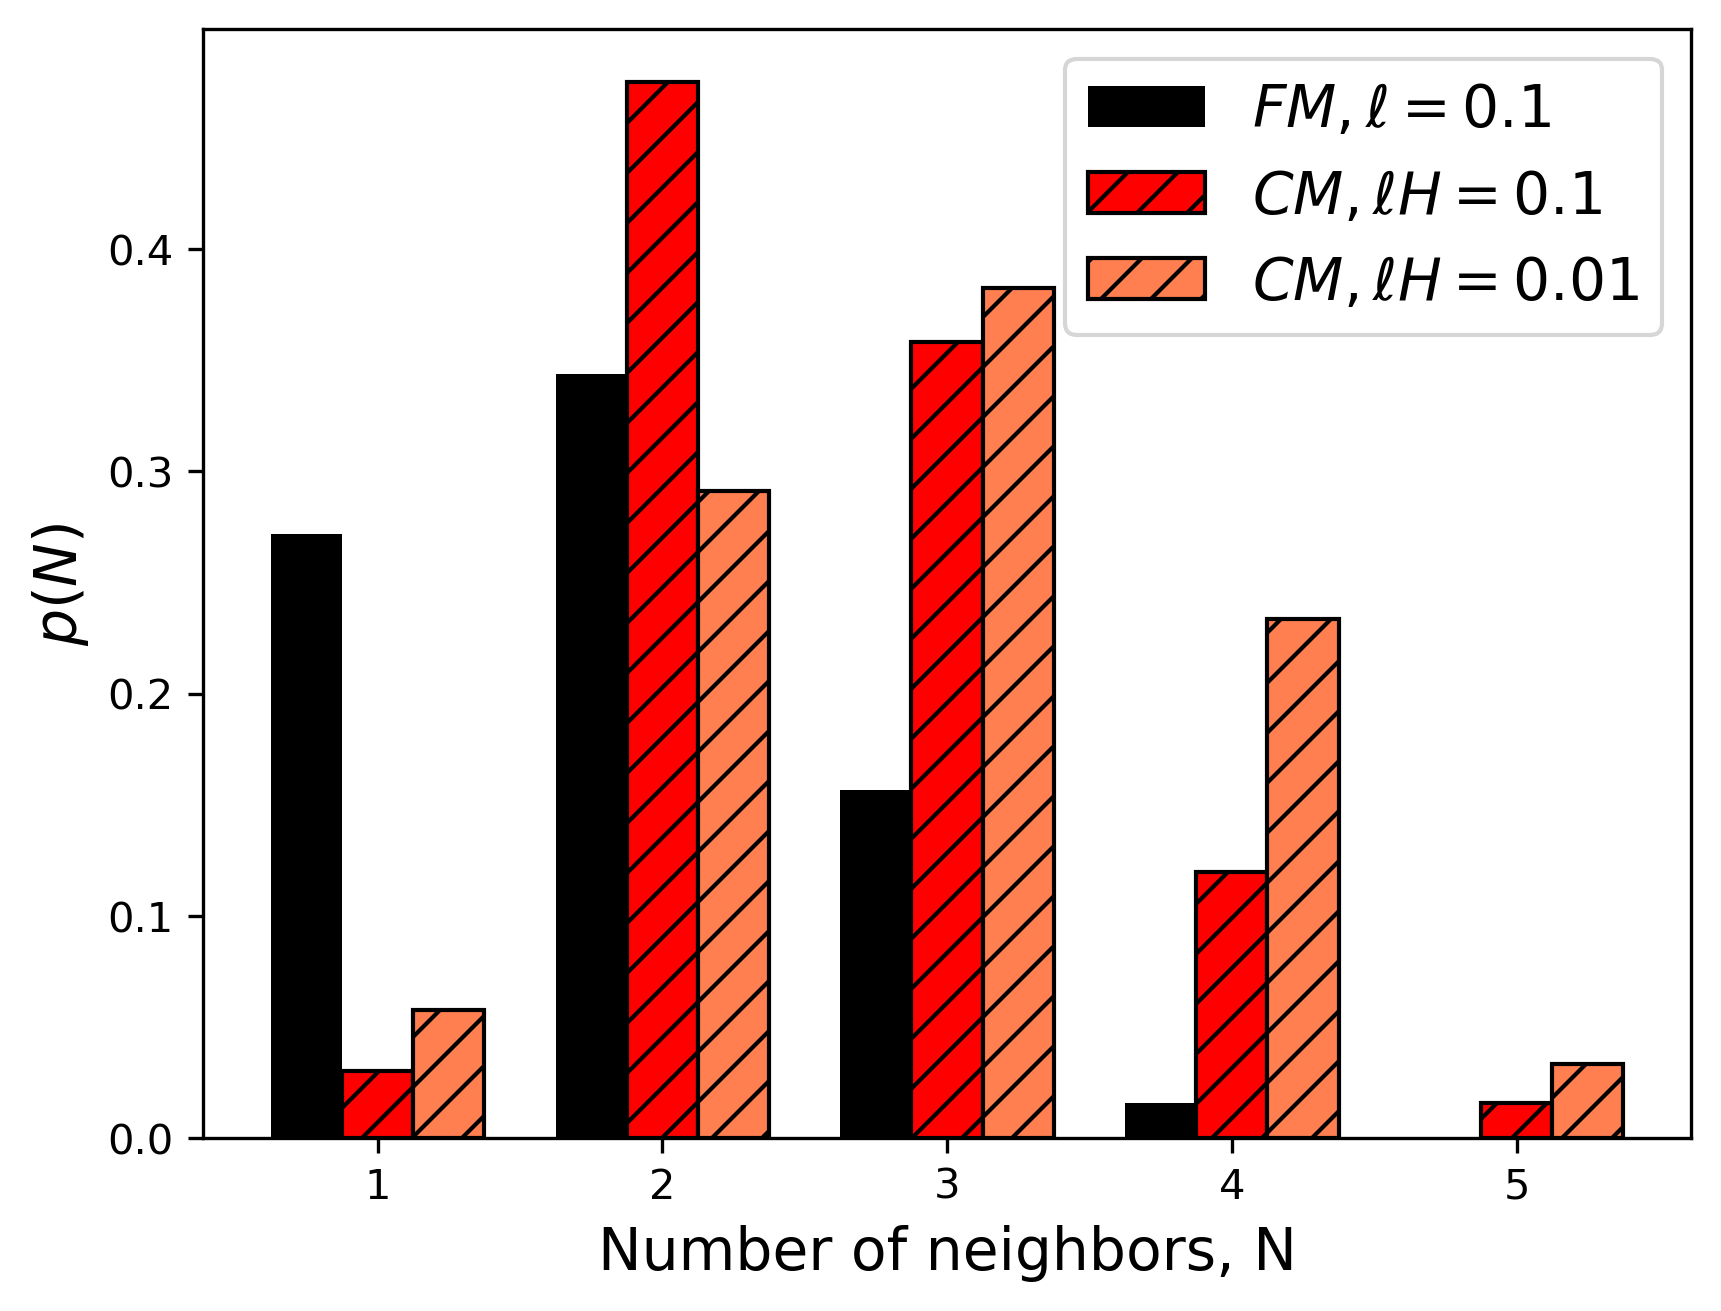
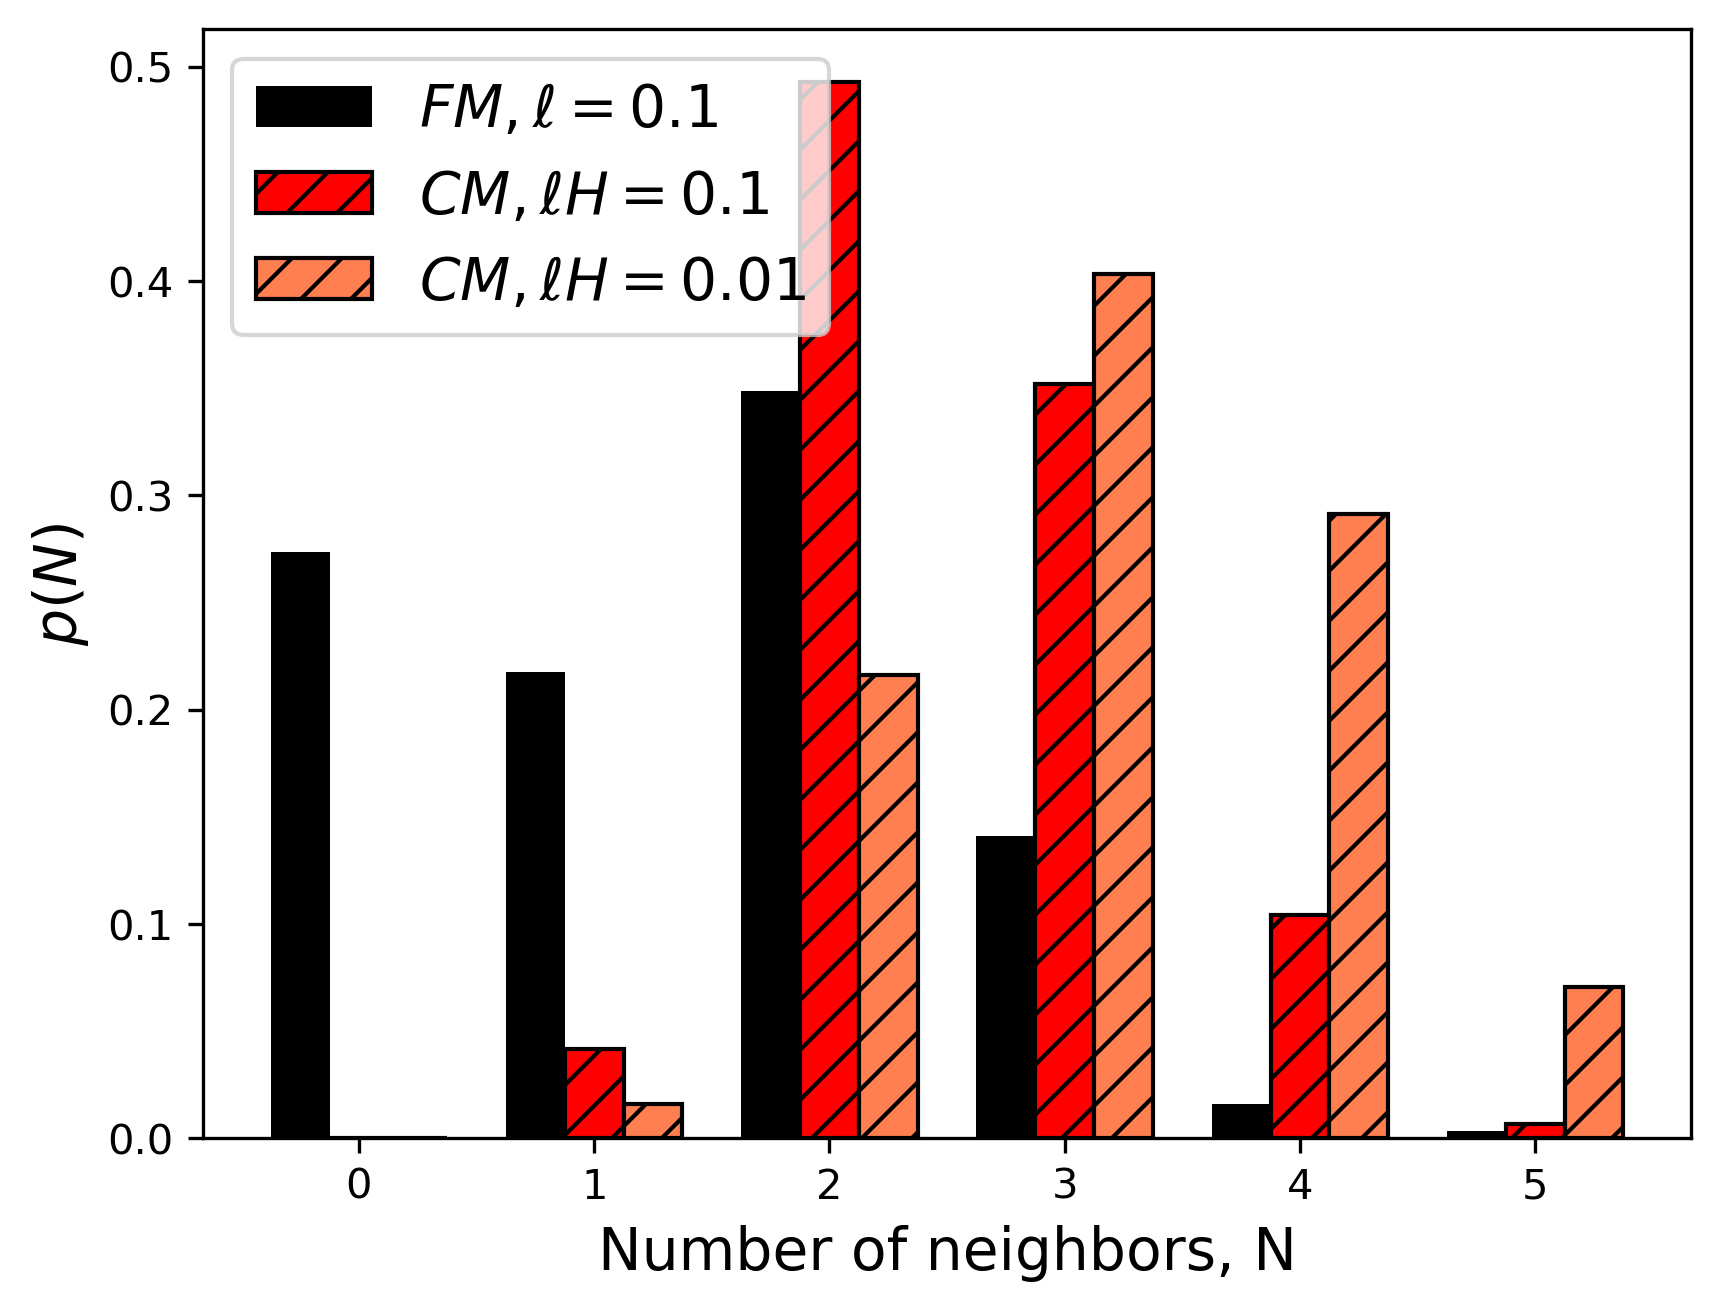
removed unnecessary PDF fits

diff --git a/Nearest Neighbor Analysis.py b/Nearest Neighbor Analysis.py
@@ -8,9 +8,9 @@ import seaborn as sns
 from scipy.stats import poisson, chisquare
 
 #%%
-pos_f01 = np.load('/Users/fizzausmani/Library/CloudStorage/Box-Box/Research/Python/Stability Analysis/FM T5000 N625 lattice sd0.1 isotropic pos.npy')[:,:,30000]
-pos_01 = np.load('/Users/fizzausmani/Library/CloudStorage/Box-Box/Research/Python/Stability Analysis/CM T5000 N625 lattice sd1 isotropic pos.npy')[:,:,30000]
-pos_001 = np.load('/Users/fizzausmani/Library/CloudStorage/Box-Box/Research/Python/Stability Analysis/CM T5000 N625 lattice sd0.1 isotropic pos.npy')[:,:,30000]
+pos_f01 = np.load('/Users/fizzausmani/Library/CloudStorage/Box-Box/Research/Python/Stability Analysis/FM T5000 N625 lattice sd0.1 isotropic pos.npy')[:,:,40000]
+pos_01 = np.load('/Users/fizzausmani/Library/CloudStorage/Box-Box/Research/Python/Stability Analysis/CM T5000 N625 lattice sd1 isotropic pos.npy')[:,:,-1]
+pos_001 = np.load('/Users/fizzausmani/Library/CloudStorage/Box-Box/Research/Python/Stability Analysis/CM T5000 N625 lattice sd0.1 isotropic pos.npy')[:,:,-1]
 ic = pd.read_csv('/Users/fizzausmani/Library/CloudStorage/Box-Box/Research/Python/Stability Analysis/CM T5000 N625 lattice sd0.1 isotropic ic.csv')
 
 N = int(ic.loc[4][1])
@@ -59,13 +59,14 @@ for i in range(0,N):
 
 def probability(counts):
     a = Counter(counts)
+    p0 = a[0]/N
     p1 = a[1]/N
     p2 = a[2]/N
     p3 = a[3]/N
     p4 = a[4]/N
     p5 = a[5]/N
     
-    prob = np.array([p1, p2, p3, p4, p5])
+    prob = np.array([p0, p1, p2, p3, p4, p5])
     
     return prob
 
@@ -75,7 +76,7 @@ probability_f01 = probability(counter_f01)
 
 #%%
 f = 14
-x1 = np.array([1,2,3,4,5])
+x1 = np.array([0,1,2,3,4,5])
 barWidth = 0.25
 x2 = [x + barWidth for x in x1]
 x3 = [x + barWidth for x in x2]
@@ -85,38 +86,35 @@ plt.clf()
 plt.bar(x1, probability_f01, hatch ="/", label = '$FM, \ell = 0.1$', color = 'black', width = barWidth)
 plt.bar(x2, probability_01, edgecolor = 'k', hatch = "//", label = '$CM, \ell H = 0.1$', color = 'red', width = barWidth)
 plt.bar(x3, probability_001, edgecolor = 'k', hatch = "//", label = '$CM, \ell H = 0.01$', color = 'coral', width = barWidth)
-plt.legend(fontsize = f)
+plt.legend(fontsize = f, loc = 'upper left')
 plt.xlabel('Number of neighbors, N', fontsize = f)
 plt.ylabel('$p(N)$', fontsize = f)
-plt.xticks([r + 1.25 for r in range(len(x1))], 
-        ['1', '2', '3', '4', '5'])
+plt.xticks([r + 0.25 for r in range(len(x1))], 
+        ['0', '1', '2', '3', '4', '5'])
 plt.savefig('Nearest Neighbor Analysis, N625_T1500.png', dpi = 300, bbox_inches = 'tight')
 plt.show()
 
 #%% poisson fit
-mu = np.mean(counter_f01)  # Poisson parameter is the mean of the data
+mu = np.mean(counter_001)  # Poisson parameter is the mean of the data
 x = np.arange(poisson.ppf(0.001, mu), poisson.ppf(0.99, mu))
 plt.cla()
 plt.plot(x, poisson.pmf(x, mu), 'r-', label='poisson pmf')
 
 # Plot your data
-plt.hist(counter_f01, bins=x, density=True, alpha=0.6, color='g')
+plt.hist(counter_001, bins=x, density=True, alpha=0.6, color='g')
 
 plt.legend()
 plt.show()
-
-#%%
-from scipy.stats import gamma
 
 # Calculate the observed frequencies
 observed_freq, bins = np.histogram(counter_001, bins=20, density=False)
 
 # Calculate the expected frequencies
-a, loc, scale = gamma.fit(counter_001)
-expected_freq = [gamma.pdf(i, a, loc, scale) * len(counter_001) for i in bins[:-1]]
+expected_freq = [poisson.pmf(i, mu) * len(counter_001) for i in range(len(bins)-1)]
 
 # Perform the chi-square test
-chi2, p = chisquare(observed_freq, f_exp=expected_freq)
+chi2, p_value = chisquare(observed_freq, f_exp=expected_freq)
 
 print(f'Chi-square statistic: {chi2}')
-print(f'p-value: {p}')
+print(f'p-value: {p_value}')
+# %%
